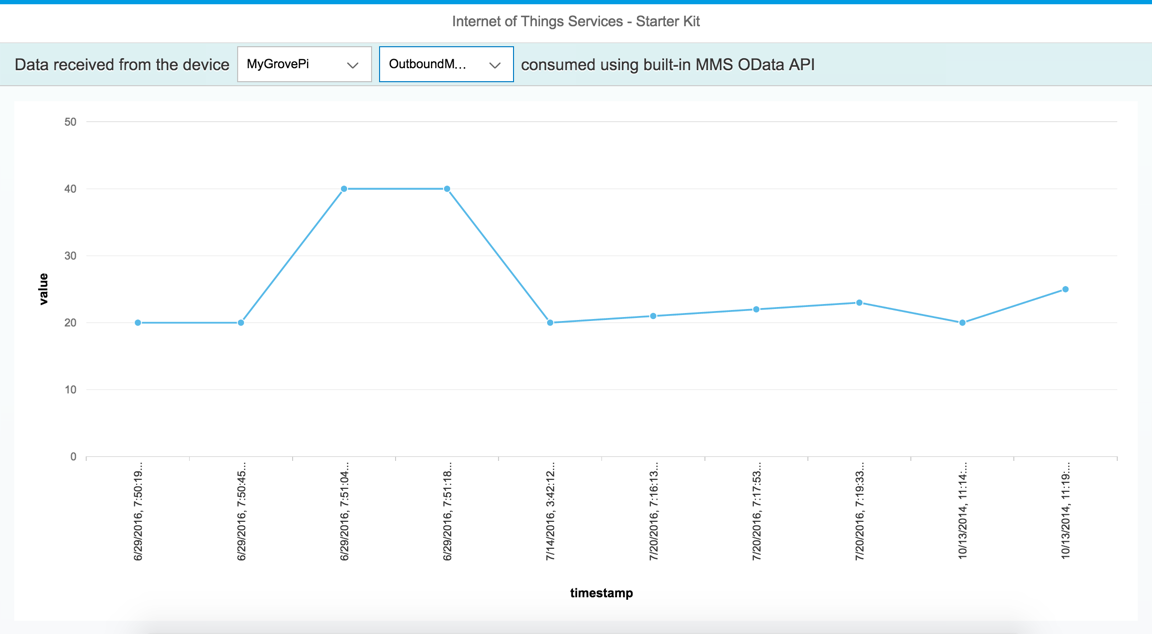
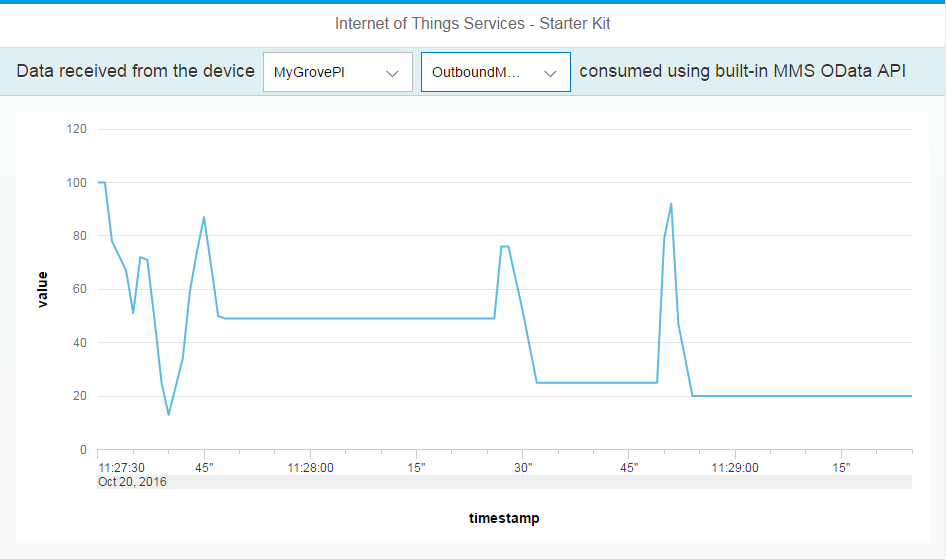
Documentation of UI5 consumption apps improved (#38)
* extended consumption ui added

* documentation adapted

* documentation adapted

* documentation adapted

- link to advanced consumption UI added to main readme
- documentation of advanced UI adapted to differentiate it from simple
consumption UI

* documentation adapted

- typo fixed
- link text adapted

* documentation adapted

- differentiation to advanced UI added to simple UI docu

* Chart changed to time-series

- changed chart type to time-series

* Restrict number of displayed values in chart

- number of displayed values restricted
- documentation adapted

* Fixed UI5 startup error

- UI5 throw an error at startup that the page set as 'initalPage' could
not be found; this issue is fixed

* Documentation of UI5 consumption apps improved

- setup guide reworked
- more screenshots added
- troubleshooting section added

* Anchor added for link across markdown files

- anchor addded for "Sending messages from the device" section

* Minor improvements in consumption UI documentation

- screenshot of chart exchanged
- list items made bold

* Additional anchor removed

* Feedback from reviewers integrated

- typos corrected

diff --git a/src/apps/ui5/consumption/README.md b/src/apps/ui5/consumption/README.md
@@ -1,44 +1,86 @@
-This directory has the sources for a UI5 application that uses the HCP IoT Services to interact with an IoT Device. It renders the received data that is stored in the database (where the MMS part of the IoT Services writes to) in an xy plot using the MMS built-in OData API. Per default the chart show the last 100 values of the chosen device.
+This directory has the sources for a UI5 application that uses the HCP IoT Services to interact with an IoT Device.
+It renders the received data that is stored in the database (where the MMS part of the IoT Services writes to) in an xy plot using the MMS built-in OData API.
+Per default the chart shows the last 100 values of the chosen device.
 
 ![UI5 Consumption example](../../../../images/mms_consume_ui5_01.png)
 
-This application is deliberately kept simple to provide an easy starting point for understanding data consumption via the MMS OData API. If you are looking for an advanced application with more configuration possibilities and live data updates, please refer to the [advanced consumption UI](../consumption-advanced).
+This application is deliberately kept simple to provide an easy starting point for understanding data consumption via the MMS OData API.
+If you are looking for an advanced application with more configuration possibilities and live data updates, please refer to the [advanced consumption UI](../consumption-advanced).
 
 ### Prerequisites
-Download the source of our example application to your system. At first we need to setup destinations to access the MMS and the RDMS from our UI5 application. The destinations can be found in the ``` destination ```  directory of the sample application. Go to the HCP Cockpit and in ``` Configuration ``` tab click on the ``` Destinations ``` like it is shown in the following image.
+#### Setup IoT Services
+The sample application needs an instance of the IoT Services running on the same HCP account, where the application shall run.
+Please refer to the IoT Services setup guide [`Internet of Things Services`](https://help.hana.ondemand.com/iot)` > Getting Started`.
+
+#### Download the IoT Starterkit
+Go to the [main folder of the GitHub repository](https://github.com/SAP/iot-starterkit) and download the IoT Starterkit.
+
+![UI5 Consumption example](../../../../images/mms_consume_ui5_01a.png)
+
+Extract the downloaded Zip file to a local folder and navigate to the sample application folder ```<Path to IoT Starterkit>\iot-starterkit-master\src\apps\ui5\consumption```.
+This folder contains two subfolders:
+- **```destinations```** - contains the destinations for accessing IoT RDMS and IoT MMS, and
+- **```src```** - contains the source code of the sample application.
+
+#### Import Destinations
+Open the HCP Cockpit in a browser and go to ``` Connectivity > Destinations ```.
 
 ![UI5 Destination configuration](../../../../images/mms_consume_ui5_03.png)
 
-Choose ``` Import Destination ``` in order to import the existing MMS destination. Please take care to adopt your HCP ``` user ```, ``` password ``` as well as the service ``` url ```. Acceptable values for the ``` %landscape_name% ``` placeholder in the URL are ``` hana ``` and ``` hanatrial ```.
+Choose ``` Import Destination ```, navigate to the ``` destinations ``` folder of the sample application and import the file ```iotmms```.
+Enter your HCP ``` User ``` and ``` Password ```. In the ``` Url ``` you need to exchange:
+- **```%account_id%```** - the name of your HCP account, which can be found on the ```Overview``` page of the HCP Cockpit under ```Account Information > Account Name```
+- **```%landscape_name%```** - the name of the HCP landscape, which can be found as part of the HCP Cockpit URL between ```https://account.``` and ```.ondemand.com```,
+e.g., on HCP Trial the URL is ```https://account.hanatrial.ondemand.com/cockpit``` and the landscape name is ``` hanatrial ```.
 
 ![UI5 MMS Destination configuration](../../../../images/mms_consume_ui5_04.png)
 
-It is also recommended to click on a "Check Connection" button after you save your imported Destination to verify your connectivity.
+It is also recommended to click on the ```Check Connection``` button after you save your imported destination to verify your connectivity.
+*Note:* This check validates only the URL, not the user and password.
 
 ![UI5 MMS Destination configuration](../../../../images/mms_consume_ui5_04a.png)
 
-After importing the MMS destination you need to import the RDMS destination the same way. Please take care to adopt your ``` user ```, the ``` url ``` and to insert your HCP ``` password ```.
+Import the RDMS destination ```iotrdms``` in the same way. Enter your HCP ``` User ``` and ``` Password ```, and adapt the service ``` Url ```.
 
 ![UI5 RDMS Destination configuration](../../../../images/mms_consume_ui5_05.png)
 
-### Edit
-In order to edit or execute our example application go *into* the ``` src ``` directory. This folder contains the webapp folder and one configuration file. Zip the webapp folder and the configuration file and upload the sample application to the HCP.
+#### Import the Application in SAP Web IDE
+To run the sample application, you first need to import it in the SAP Web IDE.
+Go *into* the ``` src ``` folder of the sample application and zip the ```webapp``` folder and the ```neo-app.json``` file (***Important:*** Do not include the ```src``` folder in the zip file).
 
-Open the HCP WebIDE and import the zip file into your workspace. ``` Click > File > Import > File From System  ``` choose the zipped file and name a destination folder. 
+![UI5 RDMS Destination configuration](../../../../images/mms_consume_ui5_05a.png)
+
+Open the HCP Cockpit, go to ```Services``` and click on the tile ```SAP Web IDE```. If you have never used the Web IDE before, you may need to enable it first.
+Click ```Open SAP Web IDE```.
+
+In the Web IDE click ```File > Import > File From System  ``` and choose the zipped file. Enter an application folder name of your choice in ```Import to```.
 
 ![UI5 Import example](../../../../images/mms_consume_ui5_02.png)
 
+The application is now available in your workspace.
 
-You are now ready to edit the sample application. In order to execute the sample application ``` Right Click > Run > Run as > Web Application ```
+![UI5 Import example](../../../../images/mms_consume_ui5_06.png)
 
+### Run the Application
+
+To run the sample application, right click on the application folder in the Web IDE and choose ```Run > Run as > Web Application ```.
+
+*Note*: The application expects IoT RDMS and IoT MMS to run. Make sure to follow the instructions of the IoT Services setup guide ([`Internet of Things Services`](https://help.hana.ondemand.com/iot)` > Getting Started`).
+You should also create at least one message type, device type and device. 
 Note that this sample application just shows data for message types that contain a ``` timestamp ``` and a ``` value ``` field. See the source code for details.
 
-### Deploy
+### Deploy the Application to HCP
 
-The deployment of the application into your HCP account is straight forward. 
-``` Right Click your project folder in WebIDE (Example: src) > Deploy > Deploy to SAP HANA Cloud Platform ```. Follow the intructions of the wizard. 
+If you want to run the sample application directly from the HCP Cockpit, you need to deploy it into your HCP account.
 
-### Modify
+Right click your project folder in WebIDE and choose ```Deploy > Deploy to SAP HANA Cloud Platform ```. Follow the intructions of the wizard. Ignore the step for registering the application in the Fiori Lanchpad.
+After the deployment you find the application in the HCP Cockpit under ```Applications > HTML5 Applications```.
+
+![UI5 Import example](../../../../images/mms_consume_ui5_07.png)
+
+Click on the link in the ```Application``` column to open the application details. In the section ```Active Version``` you find the ```Application URL``` to open the application.
+
+### Modify the Application
 
 In case you would need to display another measurement value on Y-Axis different from the ``` value ``` field of your message type, please modify the UI5 data source binding right in the source code i.e.
 [main.view.js](src/webapp/view/main.view.js) line #120.
@@ -62,3 +104,16 @@ Per default, the chart shows the last 100 values. If you want to change this num
 	});
 ```
 Change the value of the ```length``` property to the number of values you want to load. Remove the whole code line to load all values.
+
+### Troubleshooting
+If the sample application does not show devices or the chart does not show data, there are a couple of things to check.
+
+1. Check the destinations. URL, User and Password must be correct. Note that ```Check Connection``` validates only the URL.
+2. Check that the IoT Services are running, and the roles are set correctly for RDMS and MMS.
+See the [FAQ](https://help.hana.ondemand.com/iot/frameset.htm?a012a3788b6e498a8971dd27c97ce6bf.html) for typical problems and solutions.
+3. Check that at least one device with a message type of the expected format exists.
+See [Create Device Information in Internet of Things Services Cockpit](../../../prerequisites/cockpit).
+4. Check that data are available for the device. You can use the MMS Cockpit, which can be accessed in the HCP Cockpit under ```Applications > Java Applications > iotmms```.
+Click the tile ```Display Stored Messages``` and open the table with name ```T_IOT_```+```<Message Type ID>```.
+If such a table does not exist or it is empty, sending data to MMS did not work.
+Try one of these methods: [Sending messages from the device](../../../../README.md#sending-messages-from-the-device).

diff --git a/src/apps/ui5/consumption-advanced/README.md b/src/apps/ui5/consumption-advanced/README.md
@@ -7,38 +7,76 @@ It also demonstrates the display of live data via an automatic refresh.
 This application can be used as an out-of-the-box consumption UI in an end-to-end scenario, where you do not want to use the fixed message type required by the [simple consumption UI](../consumption).
 
 ### Prerequisites
-Download the source of our example application to your system. At first we need to setup destinations to access the MMS and the RDMS from our UI5 application. The destinations can be found in the ``` destination ```  directory of the sample application. Go to the HCP Cockpit and in ``` Connectivity ``` tab click on the ``` Destinations ``` like it is shown in the following image.
+#### Setup IoT Services
+The sample application needs an instance of the IoT Services running on the same HCP account, where the application shall run.
+Please refer to the IoT Services setup guide [`Internet of Things Services`](https://help.hana.ondemand.com/iot)` > Getting Started`.
+
+#### Download the IoT Starterkit
+Go to the [main folder of the GitHub repository](https://github.com/SAP/iot-starterkit) and download the IoT Starterkit.
+
+![UI5 Consumption example](../../../../images/mms_consume_ui5_01a.png)
+
+Extract the downloaded Zip file to a local folder and navigate to the sample application folder ```<path to IoT Starterkit>\iot-starterkit-master\src\apps\ui5\consumption-advanced```.
+This folder contains two subfolders:
+- **```destinations```** contains the destinations for accessing IoT RDMS and IoT MMS, and
+- **```src```** contains the source code of the sample application.
+
+#### Import Destinations
+Open the HCP Cockpit in a browser and go to ``` Connectivity > Destinations ```.
 
 ![UI5 Destination configuration](../../../../images/mms_consume_ui5_03.png)
 
-Choose ``` Import Destination ``` in order to import the existing MMS destination. Please take care to adopt your HCP ``` user ```, ``` password ``` as well as the service ``` url ```. Acceptable values for the ``` %landscape_name% ``` placeholder in the URL are ``` hana ``` and ``` hanatrial ```.
+Choose ``` Import Destination ```, navigate to the ``` destinations ``` folder of the sample application and import the file ```iotmms```.
+Enter your HCP ``` User ``` and ``` Password ```. In the ``` Url ``` you need to exchange:
+- **```%account_id%```** - the name of your HCP account, which can be found on the ```Overview``` page of the HCP Cockpit under ```Account Information > Account Name```
+- **```%landscape_name%```** - the name of the HCP landscape, which can be found as part of the HCP Cockpit URL between ```https://account.``` and ```.ondemand.com```,
+e.g., on HCP Trial the URL is ```https://account.hanatrial.ondemand.com/cockpit``` and the landscape name is ``` hanatrial ```.
 
 ![UI5 MMS Destination configuration](../../../../images/mms_consume_ui5_04.png)
 
-It is also recommended to click on a "Check Connection" button after you save your imported Destination to verify your connectivity.
+It is also recommended to click on the ```Check Connection``` button after you save your imported destination to verify your connectivity.
+*Note:* This check validates only the URL, not the user and password.
 
 ![UI5 MMS Destination configuration](../../../../images/mms_consume_ui5_04a.png)
 
-After importing the MMS destination you need to import the RDMS destination the same way. Please take care to adopt your ``` user ```, the ``` url ``` and to insert your HCP ``` password ```.
+Import the RDMS destination ```iotrdms``` in the same way. Enter your HCP ``` User ``` and ``` Password ```, and adapt the service ``` Url ```.
 
 ![UI5 RDMS Destination configuration](../../../../images/mms_consume_ui5_05.png)
 
-### Edit
-In order to edit or execute our example application go *into* the ``` src ``` directory. This folder contains the webapp folder and one configuration file. Zip the webapp folder and the configuration file and upload the sample application to the HCP.
+#### Import the Application in SAP Web IDE
+To run the sample application, you first need to import it in the SAP Web IDE.
+Go *into* the ``` src ``` folder of the sample application and zip the ```webapp``` folder and the ```neo-app.json``` file (*Important:* do not include the ```src``` folder in the zip file).
 
-Open the HCP WebIDE ( ``` HCP Cockpit > Services > SAP Web IDE > Open SAP Web IDE ``` ) and import the zip file into your workspace. Click ``` File > Import > File From System  ``` choose the zipped file and name a destination folder. 
+![UI5 RDMS Destination configuration](../../../../images/mms_consume_ui5_05a.png)
+
+Open the HCP Cockpit, go to ```Services``` and click on the tile ```SAP Web IDE```. If you have never used the Web IDE before, you may need to enable it first.
+Click ```Open SAP Web IDE```.
+
+In the Web IDE click ```File > Import > File From System  ``` and choose the zipped file. Enter an application folder name of your choice in ```Import to```.
 
 ![UI5 Import example](../../../../images/mms_consume_ui5_02.png)
 
+The application is now available in your workspace.
 
-You are now ready to edit the sample application. In order to execute the sample application ``` Right Click > Run > Run as > Web Application ```
+![UI5 Import example](../../../../images/mms_consume_ui5_06.png)
 
-Note that this sample application just shows data for message types that contain a ``` timestamp ``` field. See the source code for details.
+### Run the Application
 
-### Deploy
+To run the sample application, right click on the application folder in the Web IDE and choose ```Run > Run as > Web Application ```.
 
-The deployment of the application into your HCP account is straight forward. 
-``` Right Click your project folder in WebIDE (Example: src) > Deploy > Deploy to SAP HANA Cloud Platform ```. Follow the intructions of the wizard.
+*Note*: The application expects IoT RDMS and IoT MMS to run. Make sure to follow the instructions of the IoT Services setup guide ([`Internet of Things Services`](https://help.hana.ondemand.com/iot)` > Getting Started`).
+You should also create at least one message type, device type and device. 
+
+### Deploy the Application to HCP
+
+If you want to run the sample application directly from the HCP Cockpit, you need to deploy it into your HCP account.
+
+Right click your project folder in WebIDE and choose ```Deploy > Deploy to SAP HANA Cloud Platform ```. Follow the intructions of the wizard. Ignore the step for registering the application in the Fiori Lanchpad.
+After the deployment you find the application in the HCP Cockpit under ```Applications > HTML5 Applications```.
+
+![UI5 Import example](../../../../images/mms_consume_ui5_07.png)
+
+Click on the link in the ```Application``` column to open the application details. In the section ```Active Version``` you find the ```Application URL``` to open the application.
 
 ### Usage
 
@@ -52,3 +90,15 @@ The ```Refresh Model``` button next to the device selection reloads the availabl
 When the ```Chart Auto Refresh``` option is switched on, the chart data are reloaded each second.
 
 ```Show Last``` allows to set the number of values shown in the chart, e.g., select ```50``` to show the last 50 values in MMS for the chosen measures.
+
+### Troubleshooting
+If the sample application does not show devices or the chart does not show data, there are a couple of things to check.
+
+1. Check the destinations. URL, User and Password must be correct. Note that ```Check Connection``` validates only the URL.
+2. Check that the IoT Services are running, and the roles are set correctly for RDMS and MMS.
+See the [FAQ](https://help.hana.ondemand.com/iot/frameset.htm?a012a3788b6e498a8971dd27c97ce6bf.html) for typical problems and solutions.
+3. Check that at least one device exists. If not, create one.
+4. Check that data are available for the device. You can use the MMS Cockpit, which can be accessed in the HCP Cockpit under ```Applications > Java Applications > iotmms```.
+Click the tile ```Display Stored Messages``` and open the table with name ```T_IOT_```+```<Message Type ID>```.
+If such a table does not exist or it is empty, sending data to MMS did not work.
+Try one of these methods: [Sending messages from the device](../../../../README.md#sending-messages-from-the-device).
